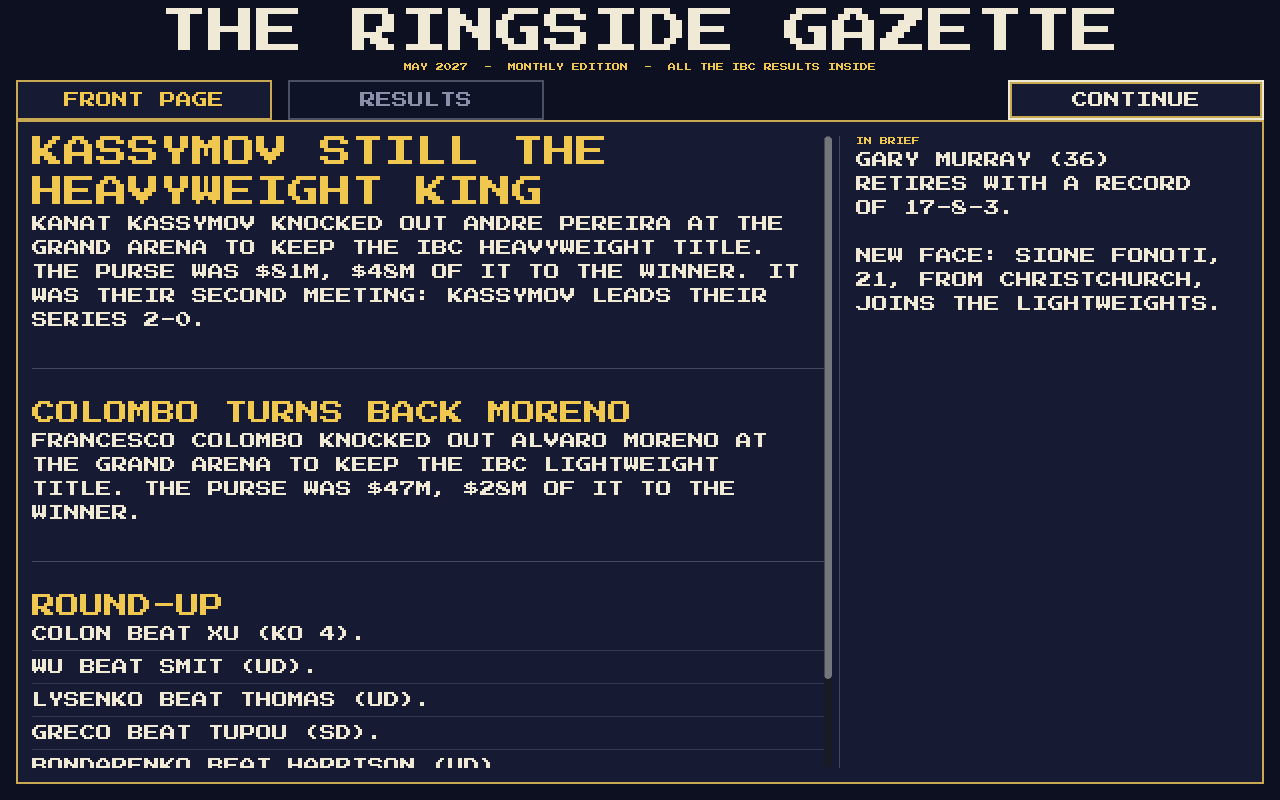
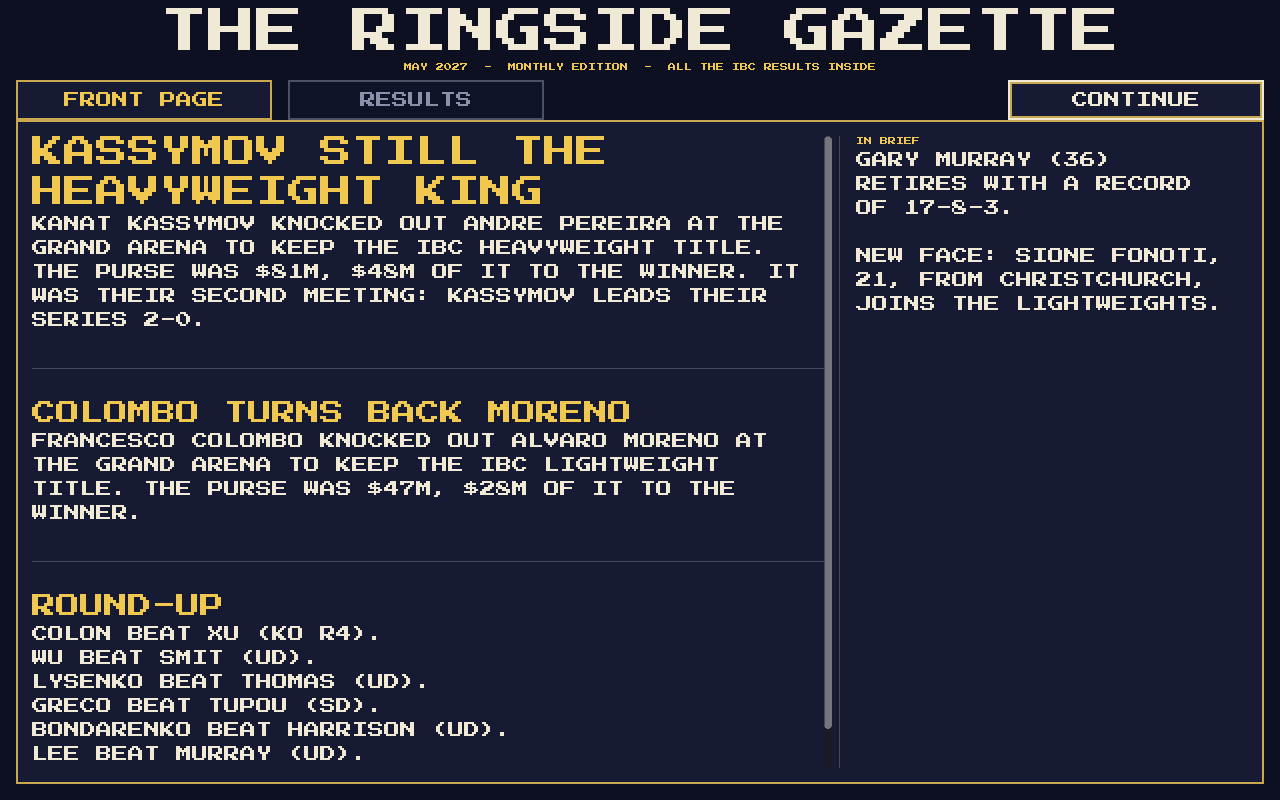
0.1.20: One-line round-up results with clearer outcomes
Takes the round-up rules away again. Each result is one line of at most
49 characters, with KO/TKO rounds as "KO R3", and a rematch's series from
the winner's side when it fits.

Claude-Session: https://claude.ai/code/session_01PF6KKrB4uHprcLjw7ppdzy

Changed region(s): [[0.0, 0.8125, 0.375, 0.9688], [0.625, 0.8438, 0.6562, 0.9062], [0.25, 0.7812, 0.2812, 0.8125]]

diff --git a/CHANGELOG.md b/CHANGELOG.md
@@ -4,6 +4,15 @@ Every build bumps the last number of the version while the game is a
 prototype. The version lives in `project.godot` (`application/config/version`)
 and is shown on the main menu.
 
+## 0.1.20
+
+* The round-up's rules between fights are gone again.
+* Every round-up result fits on one line (at most 49 characters; the
+  longest names make 43), and says how it ended more clearly: "COTE BEAT
+  SMITH (KO R3).", "(TKO R10)", "(UD)", "ZHANG AND WILLIAMS DREW
+  (SPLIT).". A rematch adds the series from the winner's side when it
+  fits: "COLON BEAT LYSENKO (KO R2), LEADS 2-0." (or LEVEL / TRAILS).
+
 ## 0.1.19
 
 * The newspaper's round-up has a faint rule between each fight, so every

diff --git a/README.md b/README.md
@@ -473,8 +473,9 @@ Head to heads count every fight in the season between the two men (not
 exhibitions). The **tale of the tape** has a HEAD TO HEAD row with each
 man's wins (FIRST MEETING if they have never fought), and the **newspaper**
 says when a fight was a rematch ("IT WAS THEIR SECOND MEETING: MURRAY
-LEADS THEIR SERIES 2-0."; just the series in the round-up). The player's
-own fight always heads the round-up.
+LEADS THEIR SERIES 2-0."). The round-up gives each fight one line, how it
+ended included ("COLON BEAT LYSENKO (KO R2), LEADS 2-0."), and the
+player's own fight always heads it.
 
 ![A new boxer](docs/screenshots/new_boxer.png)
 
